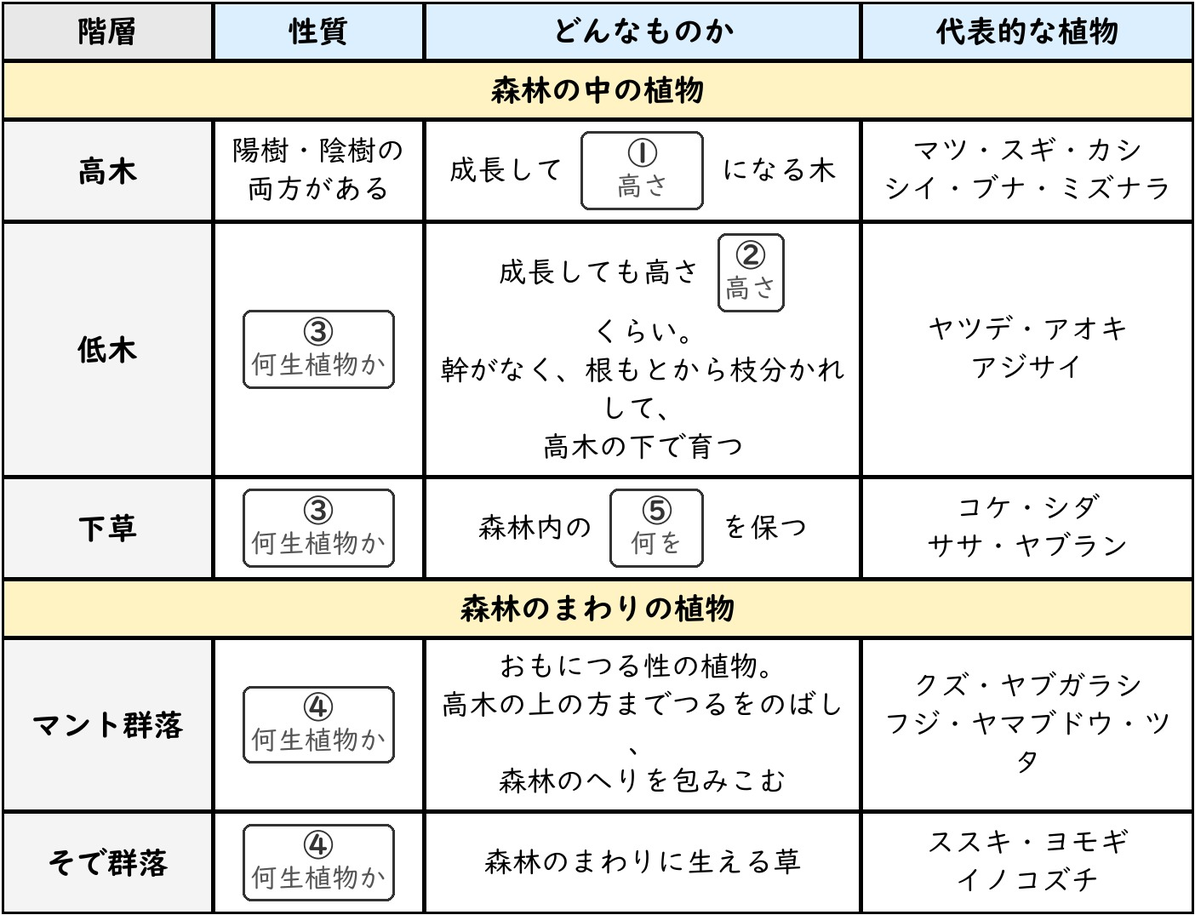
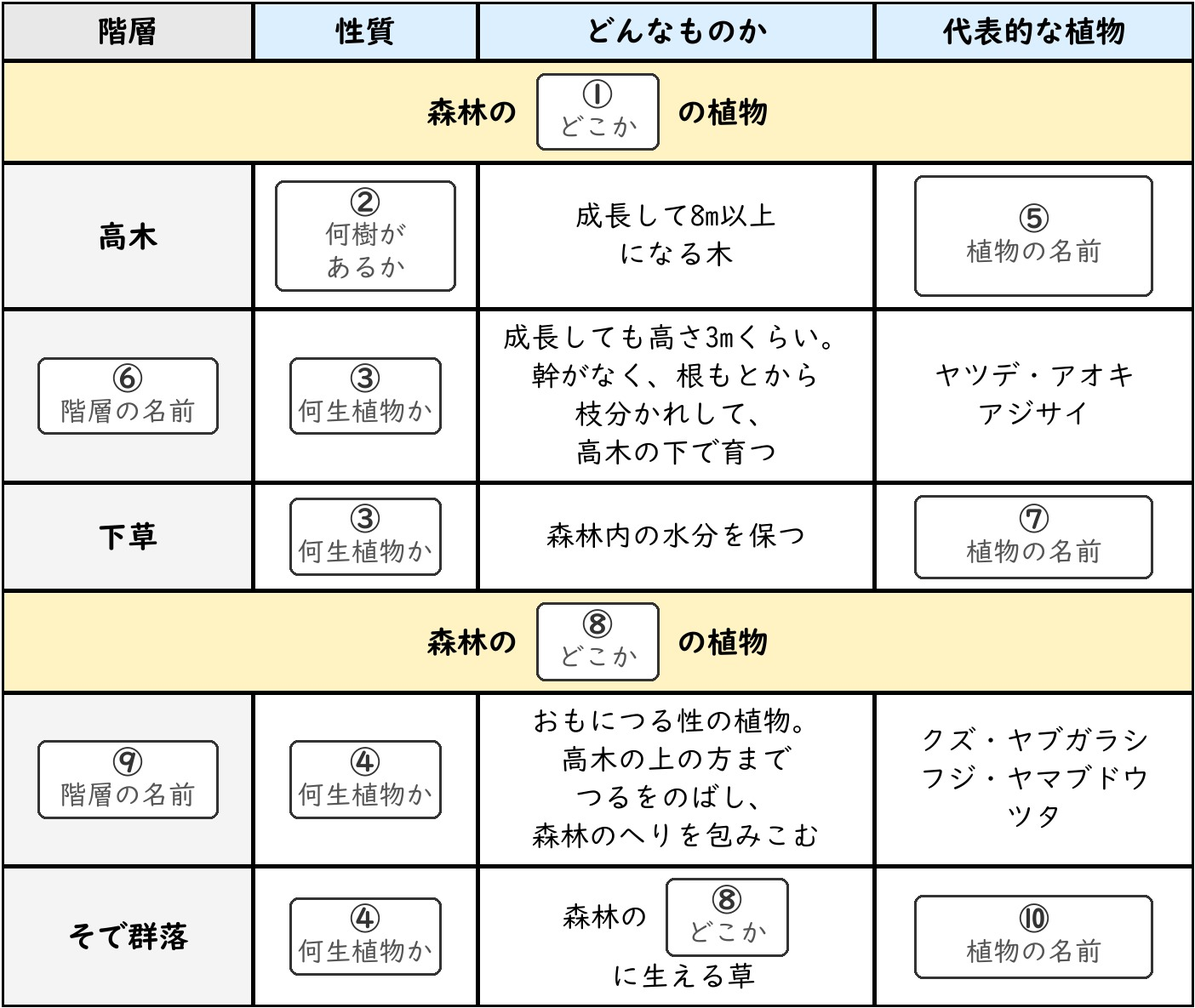
理科 第1回: 森林の表を差し替え、空欄8問を取り込み
- 消えた: r1m74(旧①=8m以上) / r1m75(旧②=3m) / r1m78(旧⑤=水分)
- 増えた: r1m79〜r1m86 の8問（①中 / ②陽樹と陰樹の両方 / ⑤⑦⑩植物名 /
  ⑥低木 / ⑧まわり / ⑨マント群落）
- 総数 1608問 → 1613問（+5）。中身が変わった id は0件
- 第1回いがい（社会・r2・r3・r4）は1つも動いていない
- images/r1_shinrin.jpg 253,934 → 269,997 バイト（元の実物とバイト一致）
- IMG_SIZES "r1_shinrin.jpg" [1404,1075] → [1404,1185]

★★画像・サイズ・問題を同じコミットに入れてある（依頼書の失敗条件9）。
　 第1回は空欄の番号を使い回しているため：
   旧 ①=8m以上 ②=3m ⑤=水分  →  新 ①=中 ②=陽樹と陰樹の両方 ⑤=植物名
   画像だけ先に入ると、消え残った旧問が新しい画像の同じ番号を指し、
   「①は？」で別の答えを求める状態ができる。
   （③④は番号も意味もそのままで、r1m76・r1m77 は生きている）

検査: verify_data 問題なし / smoke 22/22 /
      deleted_ids_probe r1m（60問すべて実機で出題・問題文と画像が全問一致・
      消した3問は0問とも出ず・JSエラー0）/ orphan_probe r1m74 通過。
390px で表の①〜⑩と10問の対応を目視、全部一致。

依頼書: 司令塔\回答\対戦_理科第3回の液性3問を取り込む_依頼_2026-09-26.md（末尾の追記）

Changed region(s): [[0.0, 0.0, 1.0, 1.0], [0.7657, 0.3377, 0.9494, 0.4298]]

diff --git a/index.html b/index.html
@@ -2629,7 +2629,7 @@ function startConnectTimeout(side){
 // images/内の各画像の実サイズ。<img>にwidth/height属性を設定することで、
 // 読み込み前でも正しい縦横比の分だけ表示スペースを確保でき、
 // 画像読み込み完了時のレイアウトのガタつき（＝それに伴うタップのすれ違い）を防ぐ。
-const IMG_SIZES = {"img_01.jpg":[581,620],"img_02.jpg":[627,579],"img_03.jpg":[714,417],"img_04.jpg":[514,483],"img_05.jpg":[644,532],"img_06.jpg":[463,429],"img_07.jpg":[1156,446],"img_08.jpg":[573,586],"img_09.jpg":[506,198],"img_10.jpg":[497,146],"img_11.jpg":[503,499],"img_12.jpg":[518,578],"img_13.jpg":[746,621],"img_14.jpg":[713,567],"img_15.jpg":[658,628],"img_16.png":[642,589],"img_17.png":[535,597],"img_18.png":[510,295],"img_19.png":[1399,307],"img_20.png":[448,714],"img_21.png":[648,595],"img_22.png":[244,234],"img_23.jpg":[346,355],"img_24.jpg":[209,263],"img_25.jpg":[228,244],"kai1_01.jpg":[374,356],"kai1_02.jpg":[348,339],"kai1_03.jpg":[492,339],"kai1_04.jpg":[352,340],"kai1_05.jpg":[357,340],"kai1_06.jpg":[261,340],"kai1_07.jpg":[461,340],"kai1_08.jpg":[444,340],"kai1_09.jpg":[357,340],"kai1_10.jpg":[601,340],"kai1_11.jpg":[635,340],"kai1_12.jpg":[2019,1084],"kai1_13.jpg":[516,490],"kai1_14.jpg":[560,254],"kai1_15.jpg":[595,324],"kai1_17.jpg":[2028,783],"kai1_18.jpg":[2019,1084],"kai1_20.jpg":[2019,1084],"kai1_21.jpg":[2019,1084],"kai1_22.jpg":[595,569],"kai1_23.jpg":[595,569],"kai1_24.jpg":[2019,1084],"kai1_25.jpg":[595,569],"kai1_26.jpg":[595,569],"kai1_27.jpg":[700,508],"kai1_28.jpg":[951,720],"kai1_29.jpg":[2240,1180],"kai1_30.jpg":[1181,1244],"kai2_01.jpg":[697,350],"kai2_02.jpg":[769,524],"kai2_03.jpg":[529,297],"kai2_04.jpg":[529,313],"kai2_05.jpg":[1216,2126],"kai3_01.jpg":[530,460],"kai3_02.jpg":[680,460],"kai3_03.jpg":[700,460],"kai3_04.jpg":[675,330],"kai3_05.jpg":[2408,1775],"kai3_06.jpg":[1988,1222],"kai3_07.jpg":[1189,2001],"kai4_01.jpg":[1189,1839],"kai5_01.jpg":[1189,1027],"kai5_02.jpg":[743,534],"kaki_r1_01.jpg":[761,180],"kaki_r1_02.jpg":[761,206],"kaki_r1_03.jpg":[796,180],"kaki_r1_04.jpg":[761,179],"kaki_r1_05.jpg":[796,206],"kaki_r1_06.jpg":[830,214],"kaki_r1_07.jpg":[890,624],"kaki_r1_08.jpg":[430,380],"kaki_r1_map01.jpg":[1170,1210],"kaki_r1_map02.jpg":[1170,1210],"kaki_r1_map03.jpg":[1170,1210],"kaki_r1_map04.jpg":[1170,1210],"kaki_r1_map05.jpg":[1170,1210],"kaki_r1_map06.jpg":[1170,1210],"kaki_r1_map07.jpg":[1170,1210],"kaki_r1_map08.jpg":[1170,1210],"kaki_r1_map09.jpg":[1170,1210],"kaki_r1_map10.jpg":[1170,1210],"kaki_r1_map11.jpg":[1170,1210],"kaki_r1_map12.jpg":[1170,1210],"kaki_r1_map13.jpg":[1170,1210],"kaki_r1_map14.jpg":[1170,1210],"kaki_r1_map15.jpg":[1170,1210],"kaki_r2_graph01.jpg":[1215,1340],"kaki_r2_graph02.jpg":[1295,850],"kaki_r2_graph03.jpg":[1265,680],"kaki_r2_graph04.jpg":[1225,320],"kaki_r2_graph06.jpg":[1045,560],"kaki_r2_graph07.jpg":[700,870],"kaki_r2_map01.jpg":[1140,1090],"kaki_r2_map05.jpg":[1035,900],"kaki_r2_map07.jpg":[2315,1650],"kaki_r2_map08.jpg":[2315,1650],"kaki_r2_map09.jpg":[2315,1650],"kaki_r2_map10.jpg":[2315,1650],"kaki_r2_map11.jpg":[2315,1650],"kaki_r2_map12.jpg":[2315,1650],"kaki_r2_map13.jpg":[2315,1650],"kaki_r2_map14.jpg":[2315,1650],"kaki_r2_map15.jpg":[2315,1650],"kaki_r2_map16.jpg":[2315,1650],"kaki_r2_map17.jpg":[2315,1650],"kaki_r2_map18.jpg":[2315,1650],"kaki_r2_map19.jpg":[2315,1650],"kaki_r3_graph01.jpg":[1015,580],"kaki_r3_house01.jpg":[505,355],"kaki_r3_map01.jpg":[2415,3414],"kaki_r3_map02.jpg":[2415,3414],"kaki_r3_map03.jpg":[2415,3414],"kaki_r3_map04.jpg":[2415,3414],"kaki_r3_map05.jpg":[2415,3414],"kaki_r3_map06.jpg":[2415,3414],"kaki_r3_map07.jpg":[2415,3414],"kaki_r3_map08.jpg":[2415,3414],"kaki_r3_map09.jpg":[2415,3414],"kaki_r3_map10.jpg":[2415,3414],"kaki_r3_map11.jpg":[2415,3414],"kaki_r3_map12.jpg":[2415,3414],"kaki_r3_map13.jpg":[2415,3414],"kaki_r3_map14.jpg":[2415,3414],"kaki_r3_map15.jpg":[2415,3414],"kaki_r3_map16.jpg":[2415,3414],"kaki_r3_map17.jpg":[2415,3414],"kaki_r3_map18.jpg":[2415,3414],"kaki_r3_map19.jpg":[2415,3414],"kaki_r3_map20.jpg":[2415,3414],"kaki_r3_map21.jpg":[2415,3414],"kaki_r3_map22.jpg":[2415,3414],"kaki_r3_map23.jpg":[2415,3417],"kaki_r3_map24.jpg":[2415,3417],"kaki_r3_map25.jpg":[2415,3417],"kaki_r3_map26.jpg":[2415,3417],"kaki_r3_map27.jpg":[2415,3417],"kaki_r3_map28.jpg":[2415,3417],"kaki_r3_map29.jpg":[2415,3417],"kaki_r3_map30.jpg":[2415,3417],"kaki_r3_map31.jpg":[2415,3417],"kaki_r3_map32.jpg":[2415,3417],"kaki_r3_map33.jpg":[2415,3417],"kaki_r3_map34.jpg":[2415,3417],"kaki_r3_map35.jpg":[2415,3417],"kaki_r3_map36.jpg":[2415,3417],"kaki_r3_map37.jpg":[1265,910],"kaki_r3_shapes.jpg":[2315,480],"kaki_r4_graph01.jpg":[910,300],"kaki_r4_graph02.jpg":[760,200],"kaki_r4_map01.jpg":[1610,980],"kaki_r4_map02.jpg":[1610,1380],"kaki_r4_map03.jpg":[540,570],"kaki_r4_map04.jpg":[1480,1310],"kaki_r4_map05.jpg":[1480,1310],"kaki_r4_map06.jpg":[1480,1310],"kaki_r4_map07.jpg":[1480,1310],"kaki_r4_map08.jpg":[1480,1310],"kaki_r4_map09.jpg":[1480,1310],"kaki_r4_map10.jpg":[1480,1310],"kaki_r4_map11.jpg":[1480,1310],"kaki_r4_map12.jpg":[1480,1310],"kaki_r4_map13.jpg":[1480,1310],"kaki_r4_map14.jpg":[1480,1310],"kaki_r4_map15.jpg":[1480,1310],"kaki_r4_map16.jpg":[1480,1310],"kaki_r4_map17.jpg":[1480,1310],"kaki_r4_map18.jpg":[1480,1310],"kaki_r4_map19.jpg":[1480,1310],"kaki_r4_map20.jpg":[1480,1310],"kaki_r4_map21.jpg":[1480,1310],"kaki_r4_map22.jpg":[1480,1310],"kaki_r4_map23.jpg":[1480,1310],"kaki_r4_map24.jpg":[1480,1310],"kaki_r4_map25.jpg":[1630,1440],"kaki_r4_map26.jpg":[1630,1440],"kaki_r4_map27.jpg":[1630,1440],"kaki_r4_map28.jpg":[1630,1440],"kaki_r4_map29.jpg":[1630,1440],"kaki_r4_map30.jpg":[1630,1440],"kaki_r4_map31.jpg":[1630,1440],"kaki_r4_map32.jpg":[1630,1440],"kaki_r4_map33.jpg":[1630,1440],"kaki_r4_map34.jpg":[1630,1440],"kaki_r4_map35.jpg":[1630,1440],"kaki_r4_map36.jpg":[1630,1440],"kaki_r4_map37.jpg":[1630,1440],"kaki_r4_map38.jpg":[1630,1440],"kaki_r4_map39.jpg":[1630,1440],"kaki_r4_map40.jpg":[1630,1440],"kaki_r4_map41.jpg":[1630,1440],"kaki_r4_shapes01.jpg":[1470,520],"kaki_r4_shapes02.jpg":[1970,870],"kaki_r5_graph02.jpg":[610,665],"kaki_r5_graph05.jpg":[2105,343],"kaki_r5_map01.jpg":[1540,1550],"kaki_r5_map02.jpg":[1540,1550],"kaki_r5_map03.jpg":[1540,1550],"kaki_r5_map04.jpg":[1540,1550],"kaki_r5_map05.jpg":[1540,1550],"kaki_r5_map06.jpg":[1540,1550],"kaki_r5_map07.jpg":[1540,1550],"kaki_r5_map08.jpg":[1540,1550],"kaki_r5_map09.jpg":[1540,1550],"kaki_r5_map10.jpg":[1540,1550],"kaki_r5_map11.jpg":[1540,1550],"kaki_r5_map12.jpg":[1540,1550],"kaki_r5_map13.jpg":[1540,1550],"kaki_r5_map14.jpg":[1540,1550],"kaki_r5_map15.jpg":[1540,1550],"kaki_r5_map16.jpg":[1540,1550],"kaki_r5_map17.jpg":[1540,1550],"kaki_r5_map18.jpg":[1540,1550],"kaki_r5_map19.jpg":[1700,1740],"kaki_r5_map20.jpg":[1700,1740],"kaki_r5_map21.jpg":[1700,1740],"kaki_r5_map22.jpg":[1700,1740],"kaki_r5_map23.jpg":[1700,1740],"kaki_r5_map24.jpg":[1700,1740],"kaki_r5_map25.jpg":[1700,1740],"kaki_r5_map26.jpg":[1700,1740],"kaki_r5_map27.jpg":[1700,1740],"kaki_r5_map28.jpg":[1700,1740],"kaki_r5_map29.jpg":[1700,1740],"kaki_r5_map30.jpg":[1700,1740],"kaki_r5_map31.jpg":[1700,1740],"kaki_r5_map32.jpg":[540,600],"kaki_r5_shapes02.jpg":[800,635],"kaki_r5_shapes03.jpg":[460,480],"kaki_r5_table01.jpg":[1370,390],"kaki_r5_table02.jpg":[1170,580],"kaki_r6_graph01.jpg":[850,1005],"kaki_r6_map01.jpg":[1500,1320],"kaki_r6_map02.jpg":[1500,1320],"kaki_r6_map03.jpg":[1500,1320],"kaki_r6_map04.jpg":[1500,1320],"kaki_r6_map05.jpg":[1500,1320],"kaki_r6_map06.jpg":[1500,1320],"kaki_r6_map07.jpg":[1500,1320],"kaki_r6_map08.jpg":[1500,1320],"kaki_r6_map09.jpg":[1500,1320],"kaki_r6_map10.jpg":[1500,1320],"kaki_r6_map11.jpg":[1500,1320],"kaki_r6_map12.jpg":[1500,1320],"kaki_r6_map13.jpg":[1500,1320],"kaki_r6_map14.jpg":[1500,1320],"kaki_r6_map15.jpg":[1500,1320],"kaki_r6_map16.jpg":[1500,1320],"kaki_r6_map17.jpg":[1500,1320],"kaki_r6_map18.jpg":[1500,1320],"kaki_r6_map19.jpg":[1500,1320],"kaki_r6_map20.jpg":[1500,1320],"kaki_r6_map21.jpg":[1500,1320],"kaki_r6_map22.jpg":[1500,1320],"kaki_r6_map23.jpg":[1500,1320],"kaki_r6_map24.jpg":[1500,1320],"kaki_r6_map25.jpg":[1500,1320],"kaki_r6_map26.jpg":[1500,1320],"kaki_r6_map27.jpg":[1500,1320],"kaki_r6_map28.jpg":[1420,1480],"kaki_r6_map29.jpg":[1420,1480],"kaki_r6_map30.jpg":[1420,1480],"kaki_r6_map31.jpg":[1420,1480],"kaki_r6_map32.jpg":[1420,1480],"kaki_r6_map33.jpg":[1420,1480],"kaki_r6_map34.jpg":[1420,1480],"kaki_r6_map35.jpg":[1420,1480],"kaki_r6_map36.jpg":[1420,1480],"kaki_r6_map37.jpg":[1420,1480],"kaki_r6_map38.jpg":[1420,1480],"kaki_r6_map39.jpg":[1420,1480],"kaki_r6_map40.jpg":[1420,1480],"kaki_r6_map41.jpg":[1420,1480],"kaki_r6_map42.jpg":[1420,1480],"kaki_r6_map43.jpg":[1420,1480],"kaki_r6_map44.jpg":[1420,1480],"kaki_r6_map45.jpg":[1420,1480],"kaki_r6_map46.jpg":[1420,1480],"kaki_r6_map47.jpg":[1420,1480],"kaki_r6_map48.jpg":[750,845],"kaki_r6_map49.jpg":[600,700],"kaki_r6_table01.jpg":[2010,445],"kaki_r7_graph02.jpg":[720,340],"kaki_r7_map01.jpg":[1840,1620],"kaki_r7_map02.jpg":[1840,1620],"kaki_r7_map03.jpg":[1840,1620],"kaki_r7_map04.jpg":[1840,1620],"kaki_r7_map05.jpg":[1840,1620],"kaki_r7_map06.jpg":[1840,1620],"kaki_r7_map07.jpg":[1840,1620],"kaki_r7_map08.jpg":[1840,1620],"kaki_r7_map09.jpg":[1840,1620],"kaki_r7_map10.jpg":[1840,1620],"kaki_r7_map11.jpg":[1840,1620],"kaki_r7_map12.jpg":[1840,1620],"kaki_r7_map13.jpg":[1840,1620],"kaki_r7_map14.jpg":[1840,1620],"kaki_r7_map15.jpg":[1840,1620],"kaki_r7_map16.jpg":[1840,1620],"kaki_r7_map17.jpg":[1840,1620],"kaki_r7_map18.jpg":[1500,1620],"kaki_r7_map19.jpg":[1500,1620],"kaki_r7_map20.jpg":[1500,1620],"kaki_r7_map21.jpg":[1500,1620],"kaki_r7_map22.jpg":[1500,1620],"kaki_r7_map23.jpg":[1500,1620],"kaki_r7_map24.jpg":[1500,1620],"kaki_r7_map25.jpg":[1500,1620],"kaki_r7_map26.jpg":[1500,1620],"kaki_r7_map27.jpg":[1500,1620],"kaki_r7_map28.jpg":[1500,1620],"kaki_r7_map29.jpg":[1500,1620],"kaki_r7_map30.jpg":[1500,1620],"kaki_r7_map31.jpg":[1500,1620],"kaki_r7_map32.jpg":[1500,1620],"kaki_r7_map33.jpg":[1500,1620],"kaki_r7_map34.jpg":[1500,1620],"kaki_r7_map35.jpg":[1500,1620],"kaki_r7_map36.jpg":[680,550],"kaki_r7_table01.jpg":[1100,420],"kaki_r7_table02.jpg":[1730,890],"kaki_r8_map01.jpg":[1220,1720],"kaki_r8_map02.jpg":[1220,1720],"kaki_r8_map03.jpg":[1220,1720],"kaki_r8_map04.jpg":[1220,1720],"kaki_r8_map05.jpg":[1220,1720],"kaki_r8_map06.jpg":[1220,1720],"kaki_r8_map07.jpg":[1220,1720],"kaki_r8_map08.jpg":[1220,1720],"kaki_r8_map09.jpg":[1220,1720],"kaki_r8_map10.jpg":[1220,1720],"kaki_r8_map11.jpg":[1220,1720],"kaki_r8_map12.jpg":[1220,1720],"kaki_r8_map13.jpg":[1220,1720],"kaki_r8_map14.jpg":[1220,1720],"kaki_r8_map15.jpg":[1220,1720],"kaki_r8_map16.jpg":[1220,1720],"kaki_r8_map17.jpg":[1220,1720],"kaki_r8_map18.jpg":[1220,1720],"kaki_r8_map19.jpg":[1220,1720],"kaki_r8_map20.jpg":[1220,1720],"kaki_r8_map21.jpg":[1220,1720],"kaki_r8_map22.jpg":[1220,1720],"kaki_r8_map23.jpg":[1220,1720],"kaki_r8_map24.jpg":[1220,1720],"kaki_r8_map25.jpg":[1220,1720],"kaki_r8_map26.jpg":[1220,1720],"kaki_r8_map27.jpg":[1220,1720],"kaki_r8_map28.jpg":[1220,1720],"kaki_r8_map29.jpg":[1220,1720],"kaki_r8_map30.jpg":[1220,1720],"kaki_r8_map31.jpg":[1220,1720],"kaki_r8_map32.jpg":[1220,1720],"kaki_r8_map33.jpg":[1220,1720],"kaki_r8_map34.jpg":[1220,1720],"kaki_r8_map35.jpg":[1870,1560],"kaki_r8_map36.jpg":[1870,1560],"kaki_r8_map37.jpg":[1870,1560],"kaki_r8_map38.jpg":[1870,1560],"kaki_r8_map39.jpg":[1870,1560],"kaki_r8_map40.jpg":[1870,1560],"kaki_r8_map41.jpg":[1870,1560],"kaki_r8_map42.jpg":[1870,1560],"kaki_r8_map43.jpg":[1870,1560],"kaki_r8_map44.jpg":[1870,1560],"kaki_r8_map45.jpg":[1870,1560],"kaki_r8_map46.jpg":[1870,1560],"kaki_r8_map47.jpg":[1870,1560],"kaki_r8_map48.jpg":[1870,1560],"kaki_r8_map49.jpg":[1870,1560],"kaki_r8_map50.jpg":[1870,1560],"kaki_r8_map51.jpg":[1870,1560],"kaki_r8_map52.jpg":[1870,1560],"kaki_r8_map53.jpg":[1870,1560],"kaki_r8_map54.jpg":[1870,1560],"kaki_r8_map55.jpg":[1870,1560],"kaki_r8_map56.jpg":[1870,1560],"kaki_r8_map57.jpg":[1870,1560],"kaki_r8_map58.jpg":[640,630],"r1_01.jpg":[2188,900],"r1_02.jpg":[1130,1070],"r1_03.jpg":[1660,400],"r1_04.jpg":[476,377],"r1_05.jpg":[1299,625],"r1_06.jpg":[950,360],"r1_shinrin.jpg":[1404,1075],"r2_01.jpg":[1400,673],"r2_02.jpg":[1400,365],"r2_03.jpg":[1400,346],"r2_04.jpg":[1400,997],"r2_05.jpg":[1400,692],"r2_06.jpg":[1392,600],"r2_07.jpg":[1392,623],"r2_08.jpg":[1392,701],"r2_09.jpg":[1419,823],"r2_10.jpg":[1419,823],"r2_11.jpg":[1419,823],"r2_12.jpg":[1419,956],"r2_13.jpg":[1419,956],"r2_14.jpg":[1419,956],"r2_15.jpg":[1400,946],"r2_16.jpg":[1400,946],"r2_17.jpg":[1400,946],"r2_18.jpg":[1400,883],"r2_19.jpg":[1400,883],"r2_20.jpg":[1427,1895],"r2_21.jpg":[1427,1895],"r2_22.jpg":[1427,1895],"r2_23.jpg":[1427,1895],"r2_24.jpg":[1427,1895],"r2_25.jpg":[1427,1895],"r2_26.jpg":[1410,1983],"r2_27.jpg":[1410,1983],"r2_28.jpg":[1410,1983],"r2_29.jpg":[1410,1983],"r2_30.jpg":[1419,946],"r2_31.jpg":[1419,946],"r2_32.jpg":[1419,946],"r2_33.jpg":[1419,946],"r2_34.jpg":[1419,538],"r2_35.jpg":[1419,538],"r2_36.jpg":[1419,538],"r2_37.jpg":[1419,538],"r2_38.jpg":[1419,546],"r2_39.jpg":[1401,913],"r2_40.jpg":[1401,1937],"r3_chuuwa.jpg":[1404,556],"r3_seishitsu.jpg":[1404,2041],"r3_shijiyaku.jpg":[1404,736],"r4_01.jpg":[880,1168],"r4_02.jpg":[1175,434],"r4_03.jpg":[759,1084],"r4_04.jpg":[1404,1960]};
+const IMG_SIZES = {"img_01.jpg":[581,620],"img_02.jpg":[627,579],"img_03.jpg":[714,417],"img_04.jpg":[514,483],"img_05.jpg":[644,532],"img_06.jpg":[463,429],"img_07.jpg":[1156,446],"img_08.jpg":[573,586],"img_09.jpg":[506,198],"img_10.jpg":[497,146],"img_11.jpg":[503,499],"img_12.jpg":[518,578],"img_13.jpg":[746,621],"img_14.jpg":[713,567],"img_15.jpg":[658,628],"img_16.png":[642,589],"img_17.png":[535,597],"img_18.png":[510,295],"img_19.png":[1399,307],"img_20.png":[448,714],"img_21.png":[648,595],"img_22.png":[244,234],"img_23.jpg":[346,355],"img_24.jpg":[209,263],"img_25.jpg":[228,244],"kai1_01.jpg":[374,356],"kai1_02.jpg":[348,339],"kai1_03.jpg":[492,339],"kai1_04.jpg":[352,340],"kai1_05.jpg":[357,340],"kai1_06.jpg":[261,340],"kai1_07.jpg":[461,340],"kai1_08.jpg":[444,340],"kai1_09.jpg":[357,340],"kai1_10.jpg":[601,340],"kai1_11.jpg":[635,340],"kai1_12.jpg":[2019,1084],"kai1_13.jpg":[516,490],"kai1_14.jpg":[560,254],"kai1_15.jpg":[595,324],"kai1_17.jpg":[2028,783],"kai1_18.jpg":[2019,1084],"kai1_20.jpg":[2019,1084],"kai1_21.jpg":[2019,1084],"kai1_22.jpg":[595,569],"kai1_23.jpg":[595,569],"kai1_24.jpg":[2019,1084],"kai1_25.jpg":[595,569],"kai1_26.jpg":[595,569],"kai1_27.jpg":[700,508],"kai1_28.jpg":[951,720],"kai1_29.jpg":[2240,1180],"kai1_30.jpg":[1181,1244],"kai2_01.jpg":[697,350],"kai2_02.jpg":[769,524],"kai2_03.jpg":[529,297],"kai2_04.jpg":[529,313],"kai2_05.jpg":[1216,2126],"kai3_01.jpg":[530,460],"kai3_02.jpg":[680,460],"kai3_03.jpg":[700,460],"kai3_04.jpg":[675,330],"kai3_05.jpg":[2408,1775],"kai3_06.jpg":[1988,1222],"kai3_07.jpg":[1189,2001],"kai4_01.jpg":[1189,1839],"kai5_01.jpg":[1189,1027],"kai5_02.jpg":[743,534],"kaki_r1_01.jpg":[761,180],"kaki_r1_02.jpg":[761,206],"kaki_r1_03.jpg":[796,180],"kaki_r1_04.jpg":[761,179],"kaki_r1_05.jpg":[796,206],"kaki_r1_06.jpg":[830,214],"kaki_r1_07.jpg":[890,624],"kaki_r1_08.jpg":[430,380],"kaki_r1_map01.jpg":[1170,1210],"kaki_r1_map02.jpg":[1170,1210],"kaki_r1_map03.jpg":[1170,1210],"kaki_r1_map04.jpg":[1170,1210],"kaki_r1_map05.jpg":[1170,1210],"kaki_r1_map06.jpg":[1170,1210],"kaki_r1_map07.jpg":[1170,1210],"kaki_r1_map08.jpg":[1170,1210],"kaki_r1_map09.jpg":[1170,1210],"kaki_r1_map10.jpg":[1170,1210],"kaki_r1_map11.jpg":[1170,1210],"kaki_r1_map12.jpg":[1170,1210],"kaki_r1_map13.jpg":[1170,1210],"kaki_r1_map14.jpg":[1170,1210],"kaki_r1_map15.jpg":[1170,1210],"kaki_r2_graph01.jpg":[1215,1340],"kaki_r2_graph02.jpg":[1295,850],"kaki_r2_graph03.jpg":[1265,680],"kaki_r2_graph04.jpg":[1225,320],"kaki_r2_graph06.jpg":[1045,560],"kaki_r2_graph07.jpg":[700,870],"kaki_r2_map01.jpg":[1140,1090],"kaki_r2_map05.jpg":[1035,900],"kaki_r2_map07.jpg":[2315,1650],"kaki_r2_map08.jpg":[2315,1650],"kaki_r2_map09.jpg":[2315,1650],"kaki_r2_map10.jpg":[2315,1650],"kaki_r2_map11.jpg":[2315,1650],"kaki_r2_map12.jpg":[2315,1650],"kaki_r2_map13.jpg":[2315,1650],"kaki_r2_map14.jpg":[2315,1650],"kaki_r2_map15.jpg":[2315,1650],"kaki_r2_map16.jpg":[2315,1650],"kaki_r2_map17.jpg":[2315,1650],"kaki_r2_map18.jpg":[2315,1650],"kaki_r2_map19.jpg":[2315,1650],"kaki_r3_graph01.jpg":[1015,580],"kaki_r3_house01.jpg":[505,355],"kaki_r3_map01.jpg":[2415,3414],"kaki_r3_map02.jpg":[2415,3414],"kaki_r3_map03.jpg":[2415,3414],"kaki_r3_map04.jpg":[2415,3414],"kaki_r3_map05.jpg":[2415,3414],"kaki_r3_map06.jpg":[2415,3414],"kaki_r3_map07.jpg":[2415,3414],"kaki_r3_map08.jpg":[2415,3414],"kaki_r3_map09.jpg":[2415,3414],"kaki_r3_map10.jpg":[2415,3414],"kaki_r3_map11.jpg":[2415,3414],"kaki_r3_map12.jpg":[2415,3414],"kaki_r3_map13.jpg":[2415,3414],"kaki_r3_map14.jpg":[2415,3414],"kaki_r3_map15.jpg":[2415,3414],"kaki_r3_map16.jpg":[2415,3414],"kaki_r3_map17.jpg":[2415,3414],"kaki_r3_map18.jpg":[2415,3414],"kaki_r3_map19.jpg":[2415,3414],"kaki_r3_map20.jpg":[2415,3414],"kaki_r3_map21.jpg":[2415,3414],"kaki_r3_map22.jpg":[2415,3414],"kaki_r3_map23.jpg":[2415,3417],"kaki_r3_map24.jpg":[2415,3417],"kaki_r3_map25.jpg":[2415,3417],"kaki_r3_map26.jpg":[2415,3417],"kaki_r3_map27.jpg":[2415,3417],"kaki_r3_map28.jpg":[2415,3417],"kaki_r3_map29.jpg":[2415,3417],"kaki_r3_map30.jpg":[2415,3417],"kaki_r3_map31.jpg":[2415,3417],"kaki_r3_map32.jpg":[2415,3417],"kaki_r3_map33.jpg":[2415,3417],"kaki_r3_map34.jpg":[2415,3417],"kaki_r3_map35.jpg":[2415,3417],"kaki_r3_map36.jpg":[2415,3417],"kaki_r3_map37.jpg":[1265,910],"kaki_r3_shapes.jpg":[2315,480],"kaki_r4_graph01.jpg":[910,300],"kaki_r4_graph02.jpg":[760,200],"kaki_r4_map01.jpg":[1610,980],"kaki_r4_map02.jpg":[1610,1380],"kaki_r4_map03.jpg":[540,570],"kaki_r4_map04.jpg":[1480,1310],"kaki_r4_map05.jpg":[1480,1310],"kaki_r4_map06.jpg":[1480,1310],"kaki_r4_map07.jpg":[1480,1310],"kaki_r4_map08.jpg":[1480,1310],"kaki_r4_map09.jpg":[1480,1310],"kaki_r4_map10.jpg":[1480,1310],"kaki_r4_map11.jpg":[1480,1310],"kaki_r4_map12.jpg":[1480,1310],"kaki_r4_map13.jpg":[1480,1310],"kaki_r4_map14.jpg":[1480,1310],"kaki_r4_map15.jpg":[1480,1310],"kaki_r4_map16.jpg":[1480,1310],"kaki_r4_map17.jpg":[1480,1310],"kaki_r4_map18.jpg":[1480,1310],"kaki_r4_map19.jpg":[1480,1310],"kaki_r4_map20.jpg":[1480,1310],"kaki_r4_map21.jpg":[1480,1310],"kaki_r4_map22.jpg":[1480,1310],"kaki_r4_map23.jpg":[1480,1310],"kaki_r4_map24.jpg":[1480,1310],"kaki_r4_map25.jpg":[1630,1440],"kaki_r4_map26.jpg":[1630,1440],"kaki_r4_map27.jpg":[1630,1440],"kaki_r4_map28.jpg":[1630,1440],"kaki_r4_map29.jpg":[1630,1440],"kaki_r4_map30.jpg":[1630,1440],"kaki_r4_map31.jpg":[1630,1440],"kaki_r4_map32.jpg":[1630,1440],"kaki_r4_map33.jpg":[1630,1440],"kaki_r4_map34.jpg":[1630,1440],"kaki_r4_map35.jpg":[1630,1440],"kaki_r4_map36.jpg":[1630,1440],"kaki_r4_map37.jpg":[1630,1440],"kaki_r4_map38.jpg":[1630,1440],"kaki_r4_map39.jpg":[1630,1440],"kaki_r4_map40.jpg":[1630,1440],"kaki_r4_map41.jpg":[1630,1440],"kaki_r4_shapes01.jpg":[1470,520],"kaki_r4_shapes02.jpg":[1970,870],"kaki_r5_graph02.jpg":[610,665],"kaki_r5_graph05.jpg":[2105,343],"kaki_r5_map01.jpg":[1540,1550],"kaki_r5_map02.jpg":[1540,1550],"kaki_r5_map03.jpg":[1540,1550],"kaki_r5_map04.jpg":[1540,1550],"kaki_r5_map05.jpg":[1540,1550],"kaki_r5_map06.jpg":[1540,1550],"kaki_r5_map07.jpg":[1540,1550],"kaki_r5_map08.jpg":[1540,1550],"kaki_r5_map09.jpg":[1540,1550],"kaki_r5_map10.jpg":[1540,1550],"kaki_r5_map11.jpg":[1540,1550],"kaki_r5_map12.jpg":[1540,1550],"kaki_r5_map13.jpg":[1540,1550],"kaki_r5_map14.jpg":[1540,1550],"kaki_r5_map15.jpg":[1540,1550],"kaki_r5_map16.jpg":[1540,1550],"kaki_r5_map17.jpg":[1540,1550],"kaki_r5_map18.jpg":[1540,1550],"kaki_r5_map19.jpg":[1700,1740],"kaki_r5_map20.jpg":[1700,1740],"kaki_r5_map21.jpg":[1700,1740],"kaki_r5_map22.jpg":[1700,1740],"kaki_r5_map23.jpg":[1700,1740],"kaki_r5_map24.jpg":[1700,1740],"kaki_r5_map25.jpg":[1700,1740],"kaki_r5_map26.jpg":[1700,1740],"kaki_r5_map27.jpg":[1700,1740],"kaki_r5_map28.jpg":[1700,1740],"kaki_r5_map29.jpg":[1700,1740],"kaki_r5_map30.jpg":[1700,1740],"kaki_r5_map31.jpg":[1700,1740],"kaki_r5_map32.jpg":[540,600],"kaki_r5_shapes02.jpg":[800,635],"kaki_r5_shapes03.jpg":[460,480],"kaki_r5_table01.jpg":[1370,390],"kaki_r5_table02.jpg":[1170,580],"kaki_r6_graph01.jpg":[850,1005],"kaki_r6_map01.jpg":[1500,1320],"kaki_r6_map02.jpg":[1500,1320],"kaki_r6_map03.jpg":[1500,1320],"kaki_r6_map04.jpg":[1500,1320],"kaki_r6_map05.jpg":[1500,1320],"kaki_r6_map06.jpg":[1500,1320],"kaki_r6_map07.jpg":[1500,1320],"kaki_r6_map08.jpg":[1500,1320],"kaki_r6_map09.jpg":[1500,1320],"kaki_r6_map10.jpg":[1500,1320],"kaki_r6_map11.jpg":[1500,1320],"kaki_r6_map12.jpg":[1500,1320],"kaki_r6_map13.jpg":[1500,1320],"kaki_r6_map14.jpg":[1500,1320],"kaki_r6_map15.jpg":[1500,1320],"kaki_r6_map16.jpg":[1500,1320],"kaki_r6_map17.jpg":[1500,1320],"kaki_r6_map18.jpg":[1500,1320],"kaki_r6_map19.jpg":[1500,1320],"kaki_r6_map20.jpg":[1500,1320],"kaki_r6_map21.jpg":[1500,1320],"kaki_r6_map22.jpg":[1500,1320],"kaki_r6_map23.jpg":[1500,1320],"kaki_r6_map24.jpg":[1500,1320],"kaki_r6_map25.jpg":[1500,1320],"kaki_r6_map26.jpg":[1500,1320],"kaki_r6_map27.jpg":[1500,1320],"kaki_r6_map28.jpg":[1420,1480],"kaki_r6_map29.jpg":[1420,1480],"kaki_r6_map30.jpg":[1420,1480],"kaki_r6_map31.jpg":[1420,1480],"kaki_r6_map32.jpg":[1420,1480],"kaki_r6_map33.jpg":[1420,1480],"kaki_r6_map34.jpg":[1420,1480],"kaki_r6_map35.jpg":[1420,1480],"kaki_r6_map36.jpg":[1420,1480],"kaki_r6_map37.jpg":[1420,1480],"kaki_r6_map38.jpg":[1420,1480],"kaki_r6_map39.jpg":[1420,1480],"kaki_r6_map40.jpg":[1420,1480],"kaki_r6_map41.jpg":[1420,1480],"kaki_r6_map42.jpg":[1420,1480],"kaki_r6_map43.jpg":[1420,1480],"kaki_r6_map44.jpg":[1420,1480],"kaki_r6_map45.jpg":[1420,1480],"kaki_r6_map46.jpg":[1420,1480],"kaki_r6_map47.jpg":[1420,1480],"kaki_r6_map48.jpg":[750,845],"kaki_r6_map49.jpg":[600,700],"kaki_r6_table01.jpg":[2010,445],"kaki_r7_graph02.jpg":[720,340],"kaki_r7_map01.jpg":[1840,1620],"kaki_r7_map02.jpg":[1840,1620],"kaki_r7_map03.jpg":[1840,1620],"kaki_r7_map04.jpg":[1840,1620],"kaki_r7_map05.jpg":[1840,1620],"kaki_r7_map06.jpg":[1840,1620],"kaki_r7_map07.jpg":[1840,1620],"kaki_r7_map08.jpg":[1840,1620],"kaki_r7_map09.jpg":[1840,1620],"kaki_r7_map10.jpg":[1840,1620],"kaki_r7_map11.jpg":[1840,1620],"kaki_r7_map12.jpg":[1840,1620],"kaki_r7_map13.jpg":[1840,1620],"kaki_r7_map14.jpg":[1840,1620],"kaki_r7_map15.jpg":[1840,1620],"kaki_r7_map16.jpg":[1840,1620],"kaki_r7_map17.jpg":[1840,1620],"kaki_r7_map18.jpg":[1500,1620],"kaki_r7_map19.jpg":[1500,1620],"kaki_r7_map20.jpg":[1500,1620],"kaki_r7_map21.jpg":[1500,1620],"kaki_r7_map22.jpg":[1500,1620],"kaki_r7_map23.jpg":[1500,1620],"kaki_r7_map24.jpg":[1500,1620],"kaki_r7_map25.jpg":[1500,1620],"kaki_r7_map26.jpg":[1500,1620],"kaki_r7_map27.jpg":[1500,1620],"kaki_r7_map28.jpg":[1500,1620],"kaki_r7_map29.jpg":[1500,1620],"kaki_r7_map30.jpg":[1500,1620],"kaki_r7_map31.jpg":[1500,1620],"kaki_r7_map32.jpg":[1500,1620],"kaki_r7_map33.jpg":[1500,1620],"kaki_r7_map34.jpg":[1500,1620],"kaki_r7_map35.jpg":[1500,1620],"kaki_r7_map36.jpg":[680,550],"kaki_r7_table01.jpg":[1100,420],"kaki_r7_table02.jpg":[1730,890],"kaki_r8_map01.jpg":[1220,1720],"kaki_r8_map02.jpg":[1220,1720],"kaki_r8_map03.jpg":[1220,1720],"kaki_r8_map04.jpg":[1220,1720],"kaki_r8_map05.jpg":[1220,1720],"kaki_r8_map06.jpg":[1220,1720],"kaki_r8_map07.jpg":[1220,1720],"kaki_r8_map08.jpg":[1220,1720],"kaki_r8_map09.jpg":[1220,1720],"kaki_r8_map10.jpg":[1220,1720],"kaki_r8_map11.jpg":[1220,1720],"kaki_r8_map12.jpg":[1220,1720],"kaki_r8_map13.jpg":[1220,1720],"kaki_r8_map14.jpg":[1220,1720],"kaki_r8_map15.jpg":[1220,1720],"kaki_r8_map16.jpg":[1220,1720],"kaki_r8_map17.jpg":[1220,1720],"kaki_r8_map18.jpg":[1220,1720],"kaki_r8_map19.jpg":[1220,1720],"kaki_r8_map20.jpg":[1220,1720],"kaki_r8_map21.jpg":[1220,1720],"kaki_r8_map22.jpg":[1220,1720],"kaki_r8_map23.jpg":[1220,1720],"kaki_r8_map24.jpg":[1220,1720],"kaki_r8_map25.jpg":[1220,1720],"kaki_r8_map26.jpg":[1220,1720],"kaki_r8_map27.jpg":[1220,1720],"kaki_r8_map28.jpg":[1220,1720],"kaki_r8_map29.jpg":[1220,1720],"kaki_r8_map30.jpg":[1220,1720],"kaki_r8_map31.jpg":[1220,1720],"kaki_r8_map32.jpg":[1220,1720],"kaki_r8_map33.jpg":[1220,1720],"kaki_r8_map34.jpg":[1220,1720],"kaki_r8_map35.jpg":[1870,1560],"kaki_r8_map36.jpg":[1870,1560],"kaki_r8_map37.jpg":[1870,1560],"kaki_r8_map38.jpg":[1870,1560],"kaki_r8_map39.jpg":[1870,1560],"kaki_r8_map40.jpg":[1870,1560],"kaki_r8_map41.jpg":[1870,1560],"kaki_r8_map42.jpg":[1870,1560],"kaki_r8_map43.jpg":[1870,1560],"kaki_r8_map44.jpg":[1870,1560],"kaki_r8_map45.jpg":[1870,1560],"kaki_r8_map46.jpg":[1870,1560],"kaki_r8_map47.jpg":[1870,1560],"kaki_r8_map48.jpg":[1870,1560],"kaki_r8_map49.jpg":[1870,1560],"kaki_r8_map50.jpg":[1870,1560],"kaki_r8_map51.jpg":[1870,1560],"kaki_r8_map52.jpg":[1870,1560],"kaki_r8_map53.jpg":[1870,1560],"kaki_r8_map54.jpg":[1870,1560],"kaki_r8_map55.jpg":[1870,1560],"kaki_r8_map56.jpg":[1870,1560],"kaki_r8_map57.jpg":[1870,1560],"kaki_r8_map58.jpg":[640,630],"r1_01.jpg":[2188,900],"r1_02.jpg":[1130,1070],"r1_03.jpg":[1660,400],"r1_04.jpg":[476,377],"r1_05.jpg":[1299,625],"r1_06.jpg":[950,360],"r1_shinrin.jpg":[1404,1185],"r2_01.jpg":[1400,673],"r2_02.jpg":[1400,365],"r2_03.jpg":[1400,346],"r2_04.jpg":[1400,997],"r2_05.jpg":[1400,692],"r2_06.jpg":[1392,600],"r2_07.jpg":[1392,623],"r2_08.jpg":[1392,701],"r2_09.jpg":[1419,823],"r2_10.jpg":[1419,823],"r2_11.jpg":[1419,823],"r2_12.jpg":[1419,956],"r2_13.jpg":[1419,956],"r2_14.jpg":[1419,956],"r2_15.jpg":[1400,946],"r2_16.jpg":[1400,946],"r2_17.jpg":[1400,946],"r2_18.jpg":[1400,883],"r2_19.jpg":[1400,883],"r2_20.jpg":[1427,1895],"r2_21.jpg":[1427,1895],"r2_22.jpg":[1427,1895],"r2_23.jpg":[1427,1895],"r2_24.jpg":[1427,1895],"r2_25.jpg":[1427,1895],"r2_26.jpg":[1410,1983],"r2_27.jpg":[1410,1983],"r2_28.jpg":[1410,1983],"r2_29.jpg":[1410,1983],"r2_30.jpg":[1419,946],"r2_31.jpg":[1419,946],"r2_32.jpg":[1419,946],"r2_33.jpg":[1419,946],"r2_34.jpg":[1419,538],"r2_35.jpg":[1419,538],"r2_36.jpg":[1419,538],"r2_37.jpg":[1419,538],"r2_38.jpg":[1419,546],"r2_39.jpg":[1401,913],"r2_40.jpg":[1401,1937],"r3_chuuwa.jpg":[1404,556],"r3_seishitsu.jpg":[1404,2041],"r3_shijiyaku.jpg":[1404,736],"r4_01.jpg":[880,1168],"r4_02.jpg":[1175,434],"r4_03.jpg":[759,1084],"r4_04.jpg":[1404,1960]};
 
 // 画像を差し替える際、幅・高さの属性も一緒に設定する（IMG_SIZESに無い画像はそのまま）
 // ---- 年表の空らんを赤丸で示す位置（画像の幅・高さに対する割合）----

diff --git a/data.js b/data.js
@@ -5072,32 +5072,6 @@ const QA_DATA = [
   "level": "標準"
  },
  {
-  "id": "r1m74",
-  "subj": "理科",
-  "u": "第1回.生物のつながり",
-  "q": "【森林の表①】表の①にあてはまる高さを答えなさい。",
-  "note": "理科8・9P／演習問題集、4P、まとめ1(3)",
-  "a": "8m以上",
-  "img": "r1_shinrin.jpg",
-  "kai": 1,
-  "kind": "memo",
-  "priority": "高",
-  "level": "基礎"
- },
- {
-  "id": "r1m75",
-  "subj": "理科",
-  "u": "第1回.生物のつながり",
-  "q": "【森林の表②】表の②にあてはまる高さを答えなさい。",
-  "note": "理科8・9P／演習問題集、4P、まとめ1(3)",
-  "a": "3m",
-  "img": "r1_shinrin.jpg",
-  "kai": 1,
-  "kind": "memo",
-  "priority": "高",
-  "level": "基礎"
- },
- {
   "id": "r1m76",
   "subj": "理科",
   "u": "第1回.生物のつながり",
@@ -5124,12 +5098,103 @@ const QA_DATA = [
   "level": "基礎"
  },
  {
-  "id": "r1m78",
+  "id": "r1m79",
   "subj": "理科",
   "u": "第1回.生物のつながり",
-  "q": "【森林の表⑤】表の⑤にあてはまる言葉を答えなさい。",
+  "q": "【森林の表①】表の①にあてはまる言葉を答えなさい。",
   "note": "理科8・9P／演習問題集、4P、まとめ1(3)",
-  "a": "水分",
+  "a": "中",
+  "img": "r1_shinrin.jpg",
+  "kai": 1,
+  "kind": "memo",
+  "priority": "高",
+  "level": "基礎"
+ },
+ {
+  "id": "r1m80",
+  "subj": "理科",
+  "u": "第1回.生物のつながり",
+  "q": "【森林の表⑧】表の⑧にあてはまる言葉を答えなさい。",
+  "note": "理科8・9P／演習問題集、4P、まとめ1(3)",
+  "a": "まわり",
+  "img": "r1_shinrin.jpg",
+  "kai": 1,
+  "kind": "memo",
+  "priority": "高",
+  "level": "基礎"
+ },
+ {
+  "id": "r1m81",
+  "subj": "理科",
+  "u": "第1回.生物のつながり",
+  "q": "【森林の表②】表の②にあてはまる言葉を答えなさい。高木には、何樹がありますか。",
+  "note": "理科8・9P／演習問題集、4P、まとめ1(3)",
+  "a": "陽樹と陰樹の両方",
+  "img": "r1_shinrin.jpg",
+  "kai": 1,
+  "kind": "memo",
+  "priority": "高",
+  "level": "基礎"
+ },
+ {
+  "id": "r1m82",
+  "subj": "理科",
+  "u": "第1回.生物のつながり",
+  "q": "【森林の表⑤】表の⑤にあてはまるものを1つ答えなさい。",
+  "note": "理科8・9P／演習問題集、4P、まとめ1(3)",
+  "a": "マツ・スギ・カシ・シイ・ブナ・ミズナラ（どれか1つ）",
+  "img": "r1_shinrin.jpg",
+  "kai": 1,
+  "kind": "memo",
+  "priority": "高",
+  "level": "基礎"
+ },
+ {
+  "id": "r1m83",
+  "subj": "理科",
+  "u": "第1回.生物のつながり",
+  "q": "【森林の表⑥】表の⑥にあてはまる階層の名前を答えなさい。",
+  "note": "理科8・9P／演習問題集、4P、まとめ1(3)",
+  "a": "低木",
+  "img": "r1_shinrin.jpg",
+  "kai": 1,
+  "kind": "memo",
+  "priority": "高",
+  "level": "基礎"
+ },
+ {
+  "id": "r1m84",
+  "subj": "理科",
+  "u": "第1回.生物のつながり",
+  "q": "【森林の表⑦】表の⑦にあてはまるものを1つ答えなさい。",
+  "note": "理科8・9P／演習問題集、4P、まとめ1(3)",
+  "a": "コケ・シダ・ササ・ヤブラン（どれか1つ）",
+  "img": "r1_shinrin.jpg",
+  "kai": 1,
+  "kind": "memo",
+  "priority": "高",
+  "level": "基礎"
+ },
+ {
+  "id": "r1m85",
+  "subj": "理科",
+  "u": "第1回.生物のつながり",
+  "q": "【森林の表⑨】表の⑨にあてはまる階層の名前を答えなさい。",
+  "note": "理科8・9P／演習問題集、4P、まとめ1(3)",
+  "a": "マント群落",
+  "img": "r1_shinrin.jpg",
+  "kai": 1,
+  "kind": "memo",
+  "priority": "高",
+  "level": "基礎"
+ },
+ {
+  "id": "r1m86",
+  "subj": "理科",
+  "u": "第1回.生物のつながり",
+  "q": "【森林の表⑩】表の⑩にあてはまるものを1つ答えなさい。",
+  "note": "理科8・9P／演習問題集、4P、まとめ1(3)",
+  "a": "ススキ・ヨモギ・イノコズチ（どれか1つ）",
   "img": "r1_shinrin.jpg",
   "kai": 1,
   "kind": "memo",
